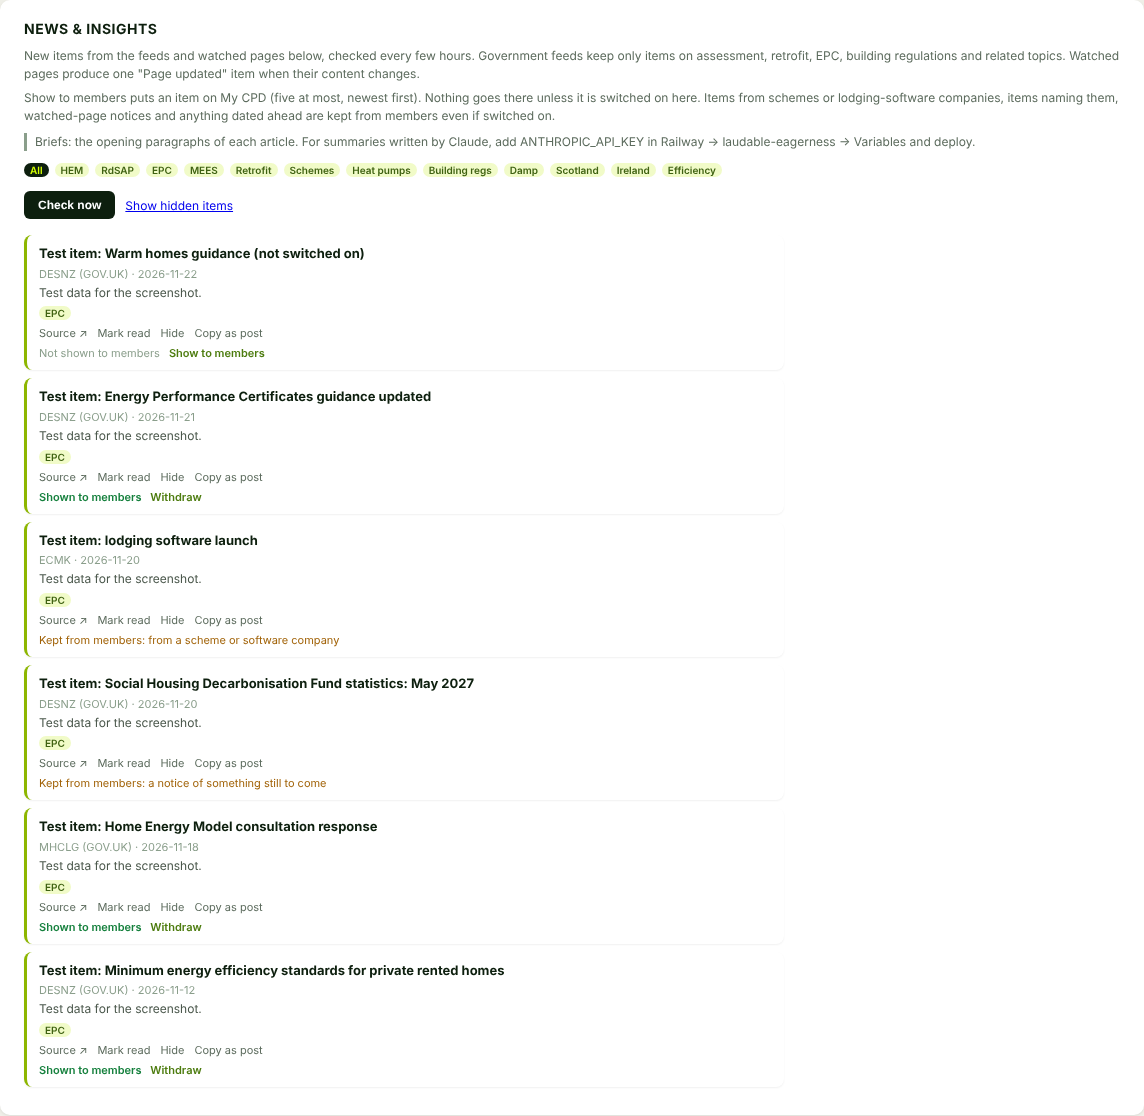
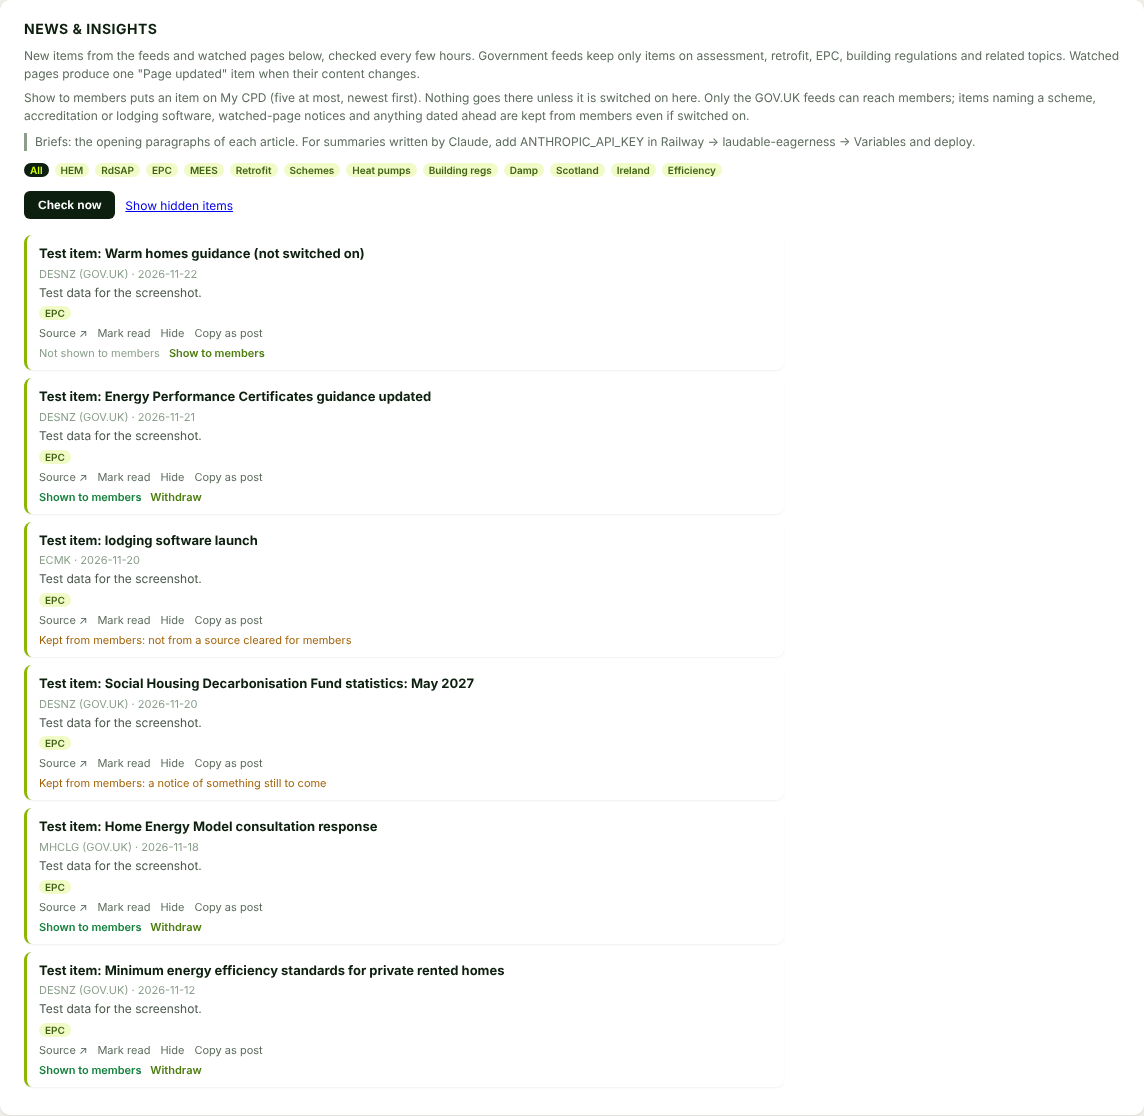
My CPD news: heading 'News', no second Source link, opt-in sources, wider name and date filter
Matt check round 1 fixes: the panel heading is 'News'; the item line is source and
date (the title is the link); only sources marked members True (the three GOV.UK
feeds) can reach members; MCS, UKAS, PAS Hub, Retrofit Academy and scheme wording
are kept out; the future-date check reads the summary too and accepts three-letter
months, dd/mm/yyyy and quarters. Screenshots re-taken.

Claude-Session: https://claude.ai/code/session_015wnqE3srQSPQJu72LQqemA

Changed region(s): [[0.0306, 0.0914, 0.5507, 0.1219], [0.5813, 0.0609, 0.979, 0.1219], [0.1224, 0.5484, 0.3059, 0.5789]]

diff --git a/webhook/news.py b/webhook/news.py
@@ -33,26 +33,26 @@ PAGE_ITEM_GAP = timedelta(days=7)      # at most one "page updated" item per pag
 SUMMARY_CHARS = 280
 
 # kind: "feed" or "page". filter: keep only entries that match a topic (broad feeds).
-# members: False keeps a source out of My CPD whatever an admin switches on (schemes and
-# lodging-software companies; see member_block_reason).
+# members: True lets a source's items reach My CPD once an admin switches them on. Every
+# other source (schemes, lodging-software companies, watched pages) never reaches members.
 SOURCES = [
-    {"id": "desnz", "name": "DESNZ (GOV.UK)", "kind": "feed", "filter": True,
+    {"id": "desnz", "members": True, "name": "DESNZ (GOV.UK)", "kind": "feed", "filter": True,
      "url": "https://www.gov.uk/government/organisations/department-for-energy-security-and-net-zero.atom"},
-    {"id": "mhclg", "name": "MHCLG (GOV.UK)", "kind": "feed", "filter": True,
+    {"id": "mhclg", "members": True, "name": "MHCLG (GOV.UK)", "kind": "feed", "filter": True,
      "url": "https://www.gov.uk/government/organisations/ministry-of-housing-communities-local-government.atom"},
-    {"id": "ofgem", "name": "Ofgem (GOV.UK)", "kind": "feed", "filter": True,
+    {"id": "ofgem", "members": True, "name": "Ofgem (GOV.UK)", "kind": "feed", "filter": True,
      "url": "https://www.gov.uk/government/organisations/ofgem.atom"},
-    {"id": "elmhurst", "members": False, "name": "Elmhurst Energy", "kind": "feed", "filter": False,
+    {"id": "elmhurst", "name": "Elmhurst Energy", "kind": "feed", "filter": False,
      "url": "https://www.elmhurstenergy.co.uk/feed/"},
-    {"id": "ecmk", "members": False, "name": "ECMK", "kind": "feed", "filter": False,
+    {"id": "ecmk", "name": "ECMK", "kind": "feed", "filter": False,
      "url": "https://www.ecmk.co.uk/feed/"},
-    {"id": "quidos", "members": False, "name": "Quidos", "kind": "feed", "filter": False,
+    {"id": "quidos", "name": "Quidos", "kind": "feed", "filter": False,
      "url": "https://www.quidos.co.uk/feed/"},
     {"id": "gov-sap-hem", "name": "GOV.UK: SAP and the Home Energy Model", "kind": "page",
      "url": "https://www.gov.uk/guidance/standard-assessment-procedure"},
     {"id": "bre-sap10", "name": "BRE: SAP 10 and RdSAP 10 documents", "kind": "page",
      "url": "https://bregroup.com/expertise/energy/sap/sap-10"},
-    {"id": "trustmark-news", "members": False, "name": "TrustMark news", "kind": "page",
+    {"id": "trustmark-news", "name": "TrustMark news", "kind": "page",
      "url": "https://www.trustmark.org.uk/news"},
     {"id": "scot-epc-reform", "name": "gov.scot: EPC reform updates", "kind": "page",
      "url": "https://www.gov.scot/publications/energy-performance-certificate-reform-updates/"},
@@ -480,36 +480,49 @@ def mark(db, item_id: str, field: str) -> None:
 # Nothing reaches a member on its own. An admin switches an item on (Admin → News, "Show to
 # members"), and every item, switched on or not, must also pass member_block_reason() each
 # time My CPD is drawn. The rule (proposed in the PR for Matt to agree):
-#   1. never an item from a scheme, an accreditation body or a lodging-software company
-#      (the sources marked "members": False in SOURCES);
+#   1. only items from a source marked "members": True in SOURCES (the three GOV.UK feeds);
+#      every other source, including schemes and lodging-software companies, is kept out;
 #   2. never an item whose title or summary names one, or talks about accreditation or
 #      lodging software (MEMBER_BLOCKED_NAMES);
 #   3. never anything dated in the future: a published date after today, a GOV.UK
-#      statistics release notice, or a title that names a month or day still to come;
+#      statistics release notice, or a title or summary that names a month, day or
+#      quarter still to come (e.g. "May 2027", "3 Dec 2026", "01/12/2026", "Q4 2026");
 #   4. never a watched page's "Page updated" notice (it tells a member nothing);
 #   5. only a plain https link.
 # Until the member_visible column exists (webhook/migrations/2026-11-24_news_for_members.sql)
 # the query fails and members see nothing.
 
 MEMBER_LIMIT = 5
-MEMBER_BLOCKED_SOURCES = {s["name"] for s in SOURCES if s.get("members") is False}
+MEMBER_SOURCES = {s["name"] for s in SOURCES if s.get("members") is True}
 MEMBER_BLOCKED_NAMES = re.compile(
     r"\belmhurst\b|\becmk\b|\bquidos\b|\bstroma\b|\bsterling\b|\bNHER\b|\bfocus ?360\b|\bkestrel\b"
     r"|\btrust ?mark\b|\bapproved organisations?\b|\baccredit|\bcertification bod(?:y|ies)\b"
+    r"|\bMCS\b|\bUKAS\b|\bPAS ?Hub\b|\bretrofit academy\b|\bscheme operat"
+    r"|\b(?:energy assessor|assessor|EPC|accreditation) schemes?\b|\bscheme operating requirements\b"
     r"|\b(?:lodg(?:e)?ment|rd ?sap|sap|epc|assessor|software) software\b|\bsoftware (?:launch|release|update|version)\b",
     re.I)
-_MONTH_NAMES = ["january", "february", "march", "april", "may", "june", "july", "august",
-                "september", "october", "november", "december"]
-_TITLE_DATE = re.compile(r"\b(?:(\d{1,2})(?:st|nd|rd|th)?\s+)?(" + "|".join(_MONTH_NAMES) + r")\s+(20\d\d)\b", re.I)
+_MONTH_RX = (r"(jan(?:uary)?|feb(?:ruary)?|mar(?:ch)?|apr(?:il)?|may|june?|july?|aug(?:ust)?"
+             r"|sep(?:t(?:ember)?)?|oct(?:ober)?|nov(?:ember)?|dec(?:ember)?)\.?")
+_MONTHS3 = ["jan", "feb", "mar", "apr", "may", "jun", "jul", "aug", "sep", "oct", "nov", "dec"]
+_DATE_WORDS = re.compile(r"\b(?:(\d{1,2})(?:st|nd|rd|th)?\s+)?" + _MONTH_RX + r",?\s+(20\d\d)\b", re.I)
+_DATE_NUM = re.compile(r"\b(\d{1,2})/(\d{1,2})/(20\d\d)\b")
+_QUARTER = re.compile(r"\bQ([1-4])\s+(20\d\d)\b", re.I)
 
 
 def _names_future_date(text: str, now: datetime) -> bool:
-    """True if the text names a month (or a day) that has not arrived yet."""
-    for day, month, year in _TITLE_DATE.findall(text or ""):
-        y, m = int(year), _MONTH_NAMES.index(month.lower()) + 1
-        if (y, m) > (now.year, now.month):
+    """True if the text names a month, a day or a quarter that has not arrived yet (or, for a
+    quarter, has not ended)."""
+    text = text or ""
+    today, this_month = (now.year, now.month, now.day), (now.year, now.month)
+    for day, month, year in _DATE_WORDS.findall(text):
+        y, m = int(year), _MONTHS3.index(month.lower()[:3]) + 1
+        if (y, m) > this_month or (day and (y, m, int(day)) > today):
             return True
-        if day and (y, m) == (now.year, now.month) and int(day) > now.day:
+    for day, month, year in _DATE_NUM.findall(text):           # UK order: dd/mm/yyyy
+        if 1 <= int(month) <= 12 and (int(year), int(month), int(day)) > today:
+            return True
+    for q, year in _QUARTER.findall(text):
+        if (int(year), int(q) * 3) > this_month:
             return True
     return False
 
@@ -521,8 +534,8 @@ def member_block_reason(item: dict, now: datetime | None = None) -> str:
     title, summary = str(item.get("title") or ""), str(item.get("summary") or "")
     if not url.startswith("https://"):
         return "no https link"
-    if item.get("source") in MEMBER_BLOCKED_SOURCES:
-        return "from a scheme or software company"
+    if item.get("source") not in MEMBER_SOURCES:
+        return "not from a source cleared for members"
     if MEMBER_BLOCKED_NAMES.search(f"{title} {summary} {item.get('source') or ''}"):
         return "names a scheme, accreditation or lodging software"
     if item.get("kind") == "page" or title.startswith("Page updated"):
@@ -532,7 +545,7 @@ def member_block_reason(item: dict, now: datetime | None = None) -> str:
         published = published.replace(tzinfo=timezone.utc)
     if published and published > now:
         return "dated in the future"
-    if "/statistics/announcements/" in url or _names_future_date(title, now):
+    if "/statistics/announcements/" in url or _names_future_date(f"{title} {summary}", now):
         return "a notice of something still to come"
     return ""
 

diff --git a/webhook/tests/test_member_news.py b/webhook/tests/test_member_news.py
@@ -1,4 +1,4 @@
-"""News and insights on My CPD. Run: python3 tests/test_member_news.py
+"""The News panel on My CPD. Run: python3 tests/test_member_news.py
 
 What must hold: nothing reaches a member unless an admin has switched it on; an item from a
 scheme or lodging-software company, one that names them, a watched-page notice and anything
@@ -67,8 +67,17 @@ item = lambda iid, title, source="DESNZ (GOV.UK)", url=None, kind="feed", when="
 # ── 1. The rule ──
 R = lambda it: news.member_block_reason(it, NOW)
 check("a government item on topic, dated today or before, passes", R(item("ok", "Energy Performance Certificates: guidance updated")) == "")
+check("only the GOV.UK feeds are cleared for members", news.MEMBER_SOURCES == {"DESNZ (GOV.UK)", "MHCLG (GOV.UK)", "Ofgem (GOV.UK)"})
 check("a scheme or software company's feed is kept out", all(R(item(f"s{n}", "Opening hours", source=name)) for n, name in
       enumerate(["ECMK", "Elmhurst Energy", "Quidos", "TrustMark news"])))
+check("a source not marked for members is kept out, including one added later",
+      R(item("new", "EPC guidance", source="Some new feed")) == "not from a source cleared for members")
+check("MCS, UKAS, PAS Hub, Retrofit Academy and scheme wording are kept out",
+      all(R(item(f"w{n}", t)) for n, t in enumerate([
+          "MCS updates heat pump standard", "UKAS assessment of certification", "PAS Hub launches new portal",
+          "Retrofit Academy course news", "Scheme operators to report quarterly", "Changes to energy assessor schemes",
+          "EPC scheme fees rise", "Assessor scheme audit dates", "Accreditation schemes guidance", "Scheme Operating Requirements v12"]))
+      and R(item("w-ok", "Energy Performance Certificates: guidance")) == "")
 check("an item naming lodging software or a scheme is kept out, whoever published it",
       R(item("n1", "ECMK launches new RdSAP 10 software")) and R(item("n2", "Stroma and Elmhurst merge"))
       and R(item("n3", "New lodgement software version released")) and R(item("n4", "Update", summary="Accreditation schemes must report by March")))
@@ -77,6 +86,14 @@ check("a GOV.UK statistics release notice is kept out",
       R(item("st", "Household energy efficiency statistics", url="https://www.gov.uk/government/statistics/announcements/hees-dec")))
 check("a title naming a month still to come is kept out (SHDF statistics: May 2027)",
       R(item("f1", "Social Housing Decarbonisation Fund statistics: May 2027")) and R(item("f2", "Statistics release: 3 December 2026")))
+check("a three-letter month still to come is kept out", R(item("f3", "Statistics: Dec 2026")) and R(item("f4", "Release 3 Jan. 2027")))
+check("a dd/mm/yyyy date still to come is kept out", R(item("f5", "Statistics release 01/12/2026"))
+      and R(item("f5b", "Statistics release 30/11/2026")) and R(item("f5c", "Published 20/11/2026")) == "")
+check("a quarter not yet ended is kept out", R(item("f6", "Household energy statistics Q4 2026")) and R(item("f7", "Q1 2027 release"))
+      and R(item("f8", "Household energy statistics Q3 2026")) == "")
+check("a future date in the summary is kept out", R(item("f9", "Household energy statistics", summary="Next release on 3 December 2026."))
+      and R(item("f10", "Household energy statistics", summary="Published for Q2 2026.")) == "")
+check("past three-letter months pass", R(item("p0", "EPC statistics: Oct 2026")) == "" and R(item("p00", "Notes, 2 Nov 2026")) == "")
 check("a title naming a past month or an earlier day this month passes",
       R(item("p1", "EPC statistics: October 2026")) == "" and R(item("p2", "Guidance published 2 November 2026")) == "")
 check("an item published after today is kept out", R(item("fut", "EPC guidance", when="2026-12-01T09:00:00+00:00")))
@@ -112,10 +129,12 @@ c = TestClient(main.app, follow_redirects=False)
 SUE = {"session_token": main._make_session_token("sub@example.com")}
 r = c.get("/my-cpd/dashboard", cookies=SUE); t = r.text
 panel = t.split('class="row news-panel"', 1)[1].split("</section>", 1)[0] if 'class="row news-panel"' in t else ""
-check("the dashboard shows the News and insights panel", r.status_code == 200 and "<h2 id=\"newsHead\">News and insights</h2>" in panel)
-check("each item: title, source, date and the source link (opening in a new tab)",
+check("the dashboard shows the News panel", r.status_code == 200 and 'id="newsHead"' in panel and '<h2 id="newsHead">News</h2>' in panel)
+check("each item: the title linked to the source (new tab), then source and date, no second Source link",
       "Energy Performance Certificates: guidance updated" in panel and "DESNZ (GOV.UK)" in panel and "20 Nov 2026" in panel
-      and 'href="https://www.gov.uk/government/news/a1" target="_blank" rel="noopener">Source ↗</a>' in panel)
+      and 'href="https://www.gov.uk/government/news/a1" target="_blank" rel="noopener">Energy Performance Certificates' in panel
+      and "Source ↗" not in panel and panel.count('href="https://www.gov.uk/government/news/a1"') == 1
+      and "DESNZ (GOV.UK) · 20 Nov 2026</div>" in panel)
 check("titles are escaped", "consultation response &lt;published&gt;" in panel and "<published>" not in panel)
 check("nothing not switched on, hidden, or kept out by the rule",
       not any(s in t for s in ["not switched on", "before the migration", "later hidden", "ECMK", "May 2099", "Page updated"]))
@@ -127,7 +146,7 @@ db["_no_column"] = True
 check("no member_visible column: the feed is empty", news.member_items(main.supabase, now=NOW) == [])
 r = c.get("/my-cpd/dashboard", cookies=SUE)
 check("no member_visible column: the dashboard loads with no news panel", r.status_code == 200 and 'class="row news-panel"' not in r.text
-      and "News and insights" not in r.text and "Your series" in r.text)
+      and 'id="newsHead"' not in r.text and "Your series" in r.text)
 auth = {"Authorization": "Basic " + base64.b64encode(b"admin:test-admin").decode()}
 r = c.post("/admin/news/off/members", headers=auth)
 check("no member_visible column: the admin switch says to run the migration", r.status_code == 409
@@ -148,7 +167,7 @@ check("Admin → News: an item not switched on offers Show to members",
       "Not shown to members" in t and "newsShare('off', true, this)" in t)
 check("Admin → News: a switched-on item says so and can be withdrawn", "Shown to members" in t and "newsShare('a1', false, this)" in t)
 check("Admin → News: a kept-out item says why and has no switch",
-      "Kept from members: from a scheme or software company" in t and "newsShare('ecmk'" not in t
+      "Kept from members: not from a source cleared for members" in t and "newsShare('ecmk'" not in t
       and "Kept from members: a notice of something still to come" in t and "newsShare('shdf'" not in t)
 check("the admin sidebar carries the switch too", "news-share" in c.get("/admin/dashboard", headers=auth).text)
 r = c.post("/admin/news/off/members", headers=auth)
@@ -162,7 +181,7 @@ check("Withdraw switches it off", r.status_code == 200 and off["member_visible"]
 ecmk = next(i for i in db["news_items"] if i["id"] == "ecmk"); ecmk["member_visible"] = False
 r = c.post("/admin/news/ecmk/members", headers=auth)
 check("an item the rule keeps out cannot be switched on", r.status_code == 409 and ecmk["member_visible"] is False
-      and "scheme or software company" in r.json()["error"])
+      and "not from a source cleared for members" in r.json()["error"])
 check("an unknown item is a 404", c.post("/admin/news/nope/members", headers=auth).status_code == 404)
 check("other actions are still refused", c.post("/admin/news/a1/delete", headers=auth).status_code == 404)
 

diff --git a/webhook/main.py b/webhook/main.py
@@ -3286,18 +3286,17 @@ async def subscriber_dashboard(request: Request):
 
 
 def _member_news_panel() -> str:
-    """News and insights on My CPD: only items an admin has switched on that also pass
-    news.member_block_reason. Title, source, date and the source link; none of the admin
+    """The News panel on My CPD: only items an admin has switched on that also pass
+    news.member_block_reason. Title (linked to the source), source and date; none of the admin
     actions. Nothing to show (or the column not added yet): no panel at all."""
     items = news.member_items(supabase)
     if not items:
         return ""
     lis = "".join(
         f'<li class="news-m"><a class="news-m-title" href="{_esc(i["url"])}" target="_blank" rel="noopener">{_esc(i.get("title") or "")}</a>'
-        f'<div class="news-m-meta">{_esc(i.get("source") or "")} · {_esc(member_ui.fmt_date(i.get("published_at")))} · '
-        f'<a href="{_esc(i["url"])}" target="_blank" rel="noopener">Source ↗</a></div></li>'
+        f'<div class="news-m-meta">{_esc(i.get("source") or "")} · {_esc(member_ui.fmt_date(i.get("published_at")))}</div></li>'
         for i in items)
-    return (f'<section class="row news-panel" aria-labelledby="newsHead"><div class="row-head"><h2 id="newsHead">News and insights</h2></div>'
+    return (f'<section class="row news-panel" aria-labelledby="newsHead"><div class="row-head"><h2 id="newsHead">News</h2></div>'
             f'<ul class="news-list">{lis}</ul></section>')
 
 
@@ -4691,8 +4690,8 @@ async def admin_news(tag: str = "", hidden: int = 0, notice: str = "", credentia
         Government feeds keep only items on assessment, retrofit, EPC, building regulations and related topics.
         Watched pages produce one "Page updated" item when their content changes.</p>
       <p class="note" style="margin-bottom:12px">Show to members puts an item on My CPD (five at most, newest first). Nothing goes
-        there unless it is switched on here. Items from schemes or lodging-software companies, items naming them, watched-page
-        notices and anything dated ahead are kept from members even if switched on.</p>
+        there unless it is switched on here. Only the GOV.UK feeds can reach members; items naming a scheme, accreditation or
+        lodging software, watched-page notices and anything dated ahead are kept from members even if switched on.</p>
       {briefs_html}
       <div style="display:flex;gap:6px;flex-wrap:wrap;margin-bottom:14px">
         <a href="/admin/news" class="news-tag" style="text-decoration:none{';background:#0D1F0E;color:#D4FF00' if not tag else ''}">All</a> {chips}
